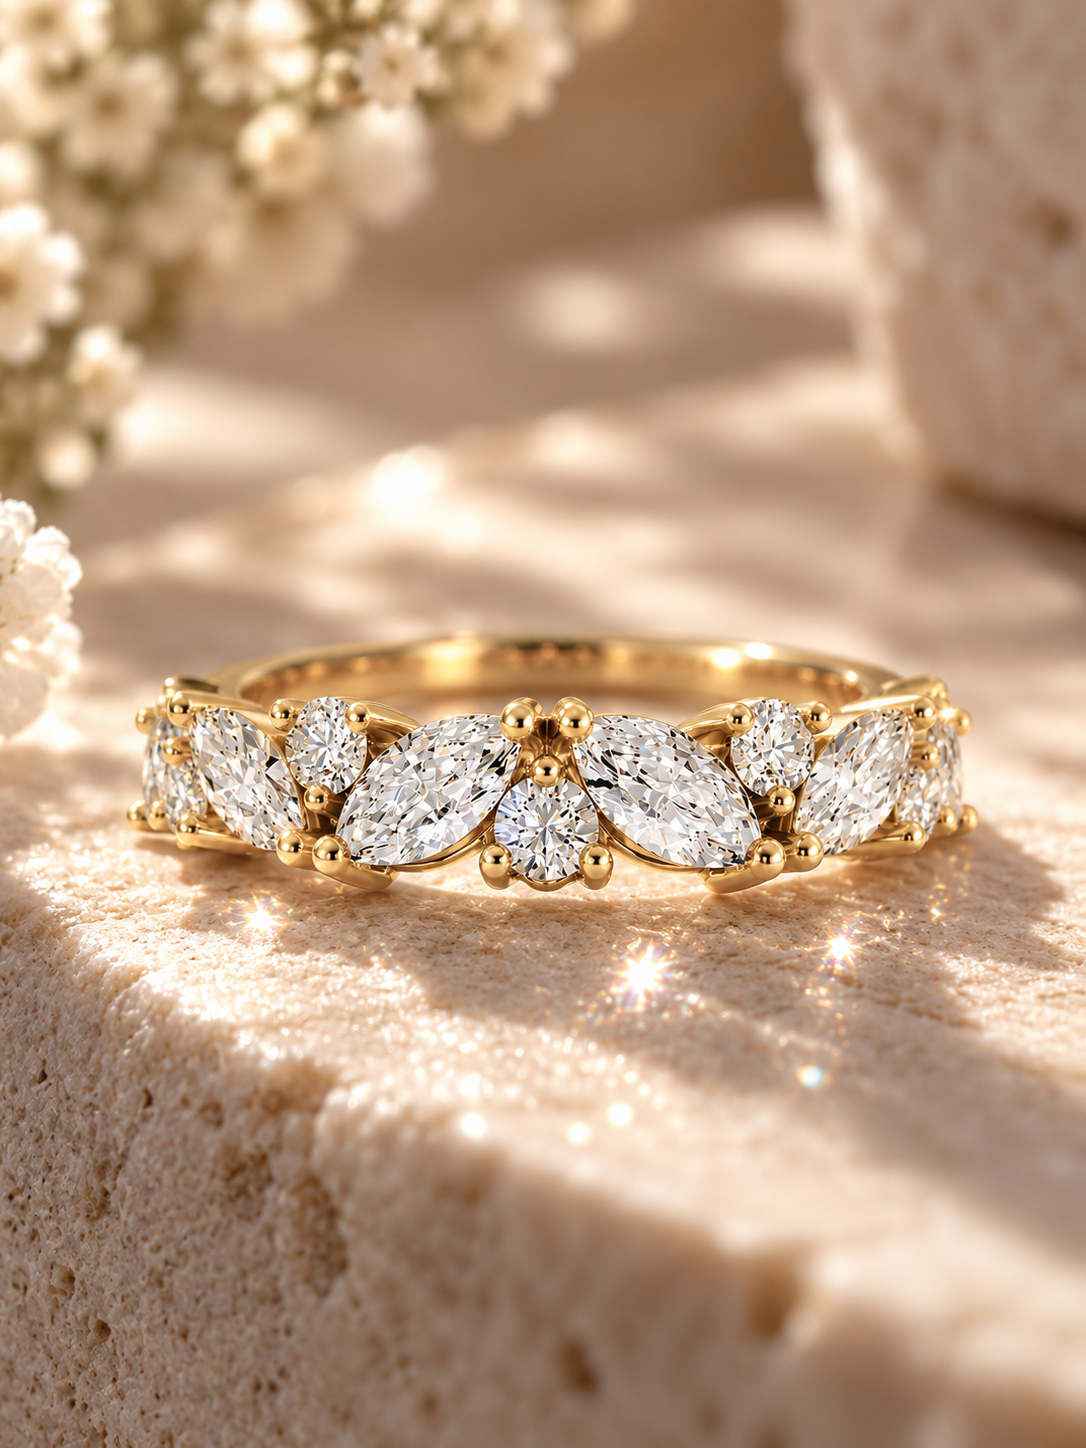
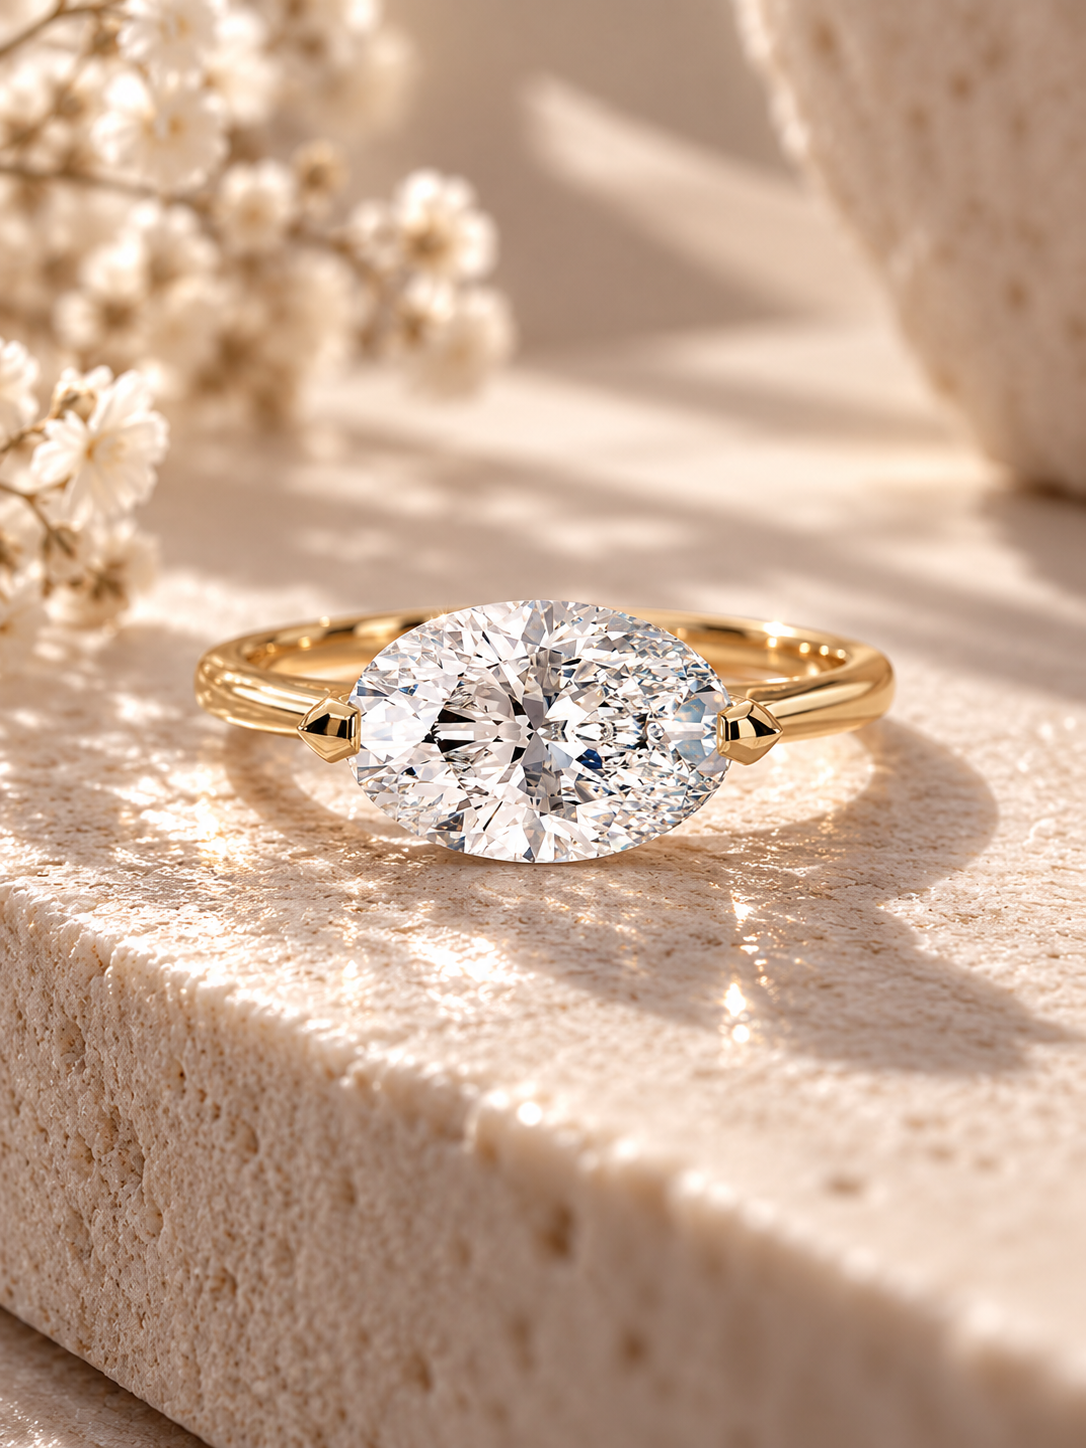
SLB

diff --git a/occasional-wear.html b/occasional-wear.html
@@ -710,12 +710,79 @@
             return '£' + Number(price).toLocaleString('en-GB');
         }
 
+        function parseCurrencyValue(val) {
+            if (!val) return null;
+            var m = String(val).match(/([0-9,.]+)/);
+            if (!m) return null;
+            return Number(m[1].replace(/,/g, ''));
+        }
+
+        function computeTennisPrice(details) {
+            // details: array of {key,value}
+            var result = {metalPrice: null, diamondPrice: null, diamondOptions: null, totalPrice: null};
+            details.forEach(function(d) {
+                if (d.key === 'metalPrice') result.metalPrice = parseCurrencyValue(d.value);
+                if (d.key === 'diamondPrice') result.diamondPrice = parseCurrencyValue(d.value);
+                if (d.key === 'totalPrice') result.totalPrice = parseCurrencyValue(d.value);
+                if (d.key === 'diamondPriceOptions') result.diamondOptions = d.value; // e.g. '0.25:2200,0.5:2400'
+            });
+
+            if (result.totalPrice) return result;
+            if (result.metalPrice != null && result.diamondPrice != null) {
+                result.totalPrice = result.metalPrice + result.diamondPrice;
+                return result;
+            }
+            if (result.metalPrice != null && result.diamondOptions) {
+                var opts = String(result.diamondOptions).split(',');
+                var nums = opts.map(function(o) {
+                    var parts = o.split(':');
+                    return parseCurrencyValue(parts[1]);
+                }).filter(Boolean);
+                if (nums.length) {
+                    var lowest = Math.min.apply(null, nums);
+                    result.diamondPrice = lowest;
+                    result.totalPrice = result.metalPrice + lowest;
+                    return result;
+                }
+            }
+            return result;
+        }
+
+        function formatDiamondOptionLabel(size) {
+            var rawSize = Number(size);
+            if (!isFinite(rawSize)) {
+                return String(size).trim() + ' ct each';
+            }
+            if (rawSize === 1) {
+                return '1.00 ct each';
+            }
+            return rawSize.toFixed(2).replace(/\.00$/, '').replace(/(\.\d)0$/, '$1') + ' ct each';
+        }
+
+        function buildDiamondOptionBlock(diamondOptions, metalPrice) {
+            if (!diamondOptions) return '';
+            var html = '<div style="margin-top:0.75rem;padding-top:0.75rem;border-top:1px solid rgba(0,0,0,0.06);">';
+            var optionParts = String(diamondOptions).split(',').filter(Boolean);
+            optionParts.forEach(function(option) {
+                var pair = option.split(':');
+                if (pair.length < 2) return;
+                var size = pair[0].trim();
+                var amount = parseCurrencyValue(pair[1]);
+                if (amount == null) return;
+                html += '<div style="margin-bottom:0.35rem;"><strong>' + formatDiamondOptionLabel(size) + '</strong> = ' + formatPrice(amount) + ' diamond price</div>';
+            });
+            if (metalPrice != null) {
+                html += '<div style="margin-top:0.5rem;"><strong>Metal price</strong>: ' + formatPrice(metalPrice) + '</div>';
+            }
+            html += '</div>';
+            return html;
+        }
+
         function getMetaHTML(item, category) {
             var metal = item.metal || '18K Gold';
             var price = item.price;
             var html = '<span class="meta-metal">' + getMetalDisplay(metal) + '</span>';
 
-            // Price on Request pieces: show only the price.
             if (price === 'request') {
                 html += '<span class="meta-price-label">' + getLabel('label-request', 'Price') + ':</span>';
                 html += '<span class="meta-price"><strong>' + getLabel('label-on-request', 'On Request') + '</strong></span>';
@@ -723,7 +790,6 @@
             }
 
             if (category === 'Ring') {
-                // Rings: Centre Stone only.
                 if (item.details && item.details.length) {
                     item.details.forEach(function(d) {
                         if (d.key === 'centreStone') {
@@ -732,7 +798,6 @@
                     });
                 }
             } else {
-                // Other jewellery: Total Carat Weight only.
                 if (item.details && item.details.length) {
                     item.details.forEach(function(d) {
                         if (d.key === 'totalKarat') {
@@ -753,15 +818,27 @@
             var price = item.price;
             var html = '<span class="meta-metal">' + getMetalDisplay(metal) + '</span>';
 
-            // Price on Request pieces: show only the price.
-            if (price === 'request') {
+            if (price === 'request' && item.details && item.details.length) {
+                var comp = computeTennisPrice(item.details);
                 html += '<span class="meta-price-label">' + getLabel('label-request', 'Price') + ':</span>';
                 html += '<span class="meta-price"><strong>' + getLabel('label-on-request', 'On Request') + '</strong></span>';
+                if (comp && comp.diamondOptions) {
+                    html += '<button type="button" class="modal-details-toggle" role="button" aria-expanded="false" tabindex="0">Click to see full price list info</button>';
+                    var extra = '<div class="modal-details-extra" style="display:none;margin-top:0.75rem;padding-top:0.75rem;border-top:1px solid rgba(0,0,0,0.06);">';
+                    if (item.details) {
+                        item.details.forEach(function(d) {
+                            if (d.key === 'totalKarat') extra += '<div><strong>Total carat</strong>: ' + d.value + '</div>';
+                            if (d.key === 'info') extra += '<div style="margin-top:0.5rem;color:#555">' + d.value + '</div>';
+                        });
+                    }
+                    extra += buildDiamondOptionBlock(comp.diamondOptions, comp.metalPrice);
+                    extra += '</div>';
+                    html += extra;
+                }
                 return html;
             }
 
             if (category === 'Ring') {
-                // Rings: Centre Stone only.
                 if (item.details && item.details.length) {
                     item.details.forEach(function(d) {
                         if (d.key === 'centreStone') {
@@ -770,7 +847,6 @@
                     });
                 }
             } else {
-                // Other jewellery: Total Carat Weight only.
                 if (item.details && item.details.length) {
                     item.details.forEach(function(d) {
                         if (d.key === 'totalKarat') {
@@ -902,7 +978,8 @@
                     extra.classList.toggle('is-expanded', !isExpanded);
                 }
                 detailToggle.setAttribute('aria-expanded', String(!isExpanded));
-                detailToggle.textContent = isExpanded ? 'View full details' : 'Hide full details';
+                var nextLabel = detailToggle.textContent.indexOf('Click to see full price list info') !== -1 ? (isExpanded ? 'Click to see full price list info' : 'Hide full price list info') : (isExpanded ? 'View full details' : 'Hide full details');
+                detailToggle.textContent = nextLabel;
                 return;
             }
             var card = e.target.closest('.product-card');
@@ -983,12 +1060,12 @@
 
         // Occasional Wear - Bracelets
         renderProducts('occasionalWear', [
-            {name:'Lumina Wedding Tennis', image:'49.png', price:'request'},
-                    {name:'Arabella', image:'53.png', price:'request'},
-                    {name:'Classic Round Tennis Bracelet (Gold)', image:'classic-round-tennis-bracelet-gold.png', price:'request', details:[{key:'totalKarat', value:'12 ct'},{key:'metalPrice', value:'2520 GBP'},{key:'diamondPriceOptions', value:'0.25:2200,0.5:2400,0.75:2700,1:3000'},{key:'info', value:'Total carat 12 ct — diamond price varies by chosen per-stone size; metal price shown'}]},
-                    {name:'Emerald-Cut Tennis Bracelet', image:'emerald-cut-tennis-bracelet.png', price:'request', details:[{key:'totalKarat', value:'12 ct'},{key:'metalPrice', value:'2520 GBP'},{key:'diamondPriceOptions', value:'0.25:2200,0.5:2400,0.75:2700,1:3000'},{key:'info', value:'Total carat 12 ct — diamond price varies by chosen per-stone size; metal price shown'}]},
-                    {name:'Marquise and Round Tennis Bracelet', image:'marquise-oval-alternating-tennis-bracelet.png', price:'request', details:[{key:'totalKarat', value:'12 ct'},{key:'diamondPrice', value:'3000 GBP'},{key:'metalPrice', value:'2520 GBP'},{key:'totalPrice', value:'5520 GBP'},{key:'info', value:'Large marquise stones ~0.5 ct each ×20 — total carat 12 ct'}]},
-                    {name:'Pear-Cut Tennis Bracelet (Gold)', image:'pear-cut-tennis-bracelet-gold.png', price:'request', details:[{key:'totalKarat', value:'12 ct'},{key:'metalPrice', value:'2520 GBP'},{key:'diamondPriceOptions', value:'0.25:2200,0.5:2400,0.75:2700,1:3000'},{key:'info', value:'Total carat 12 ct — diamond price varies by chosen per-stone size; metal price shown'}]}
+                    {name:'Lumina Wedding Tennis', image:'49.png', price:'request', metal:'18K Gold', details:[{key:'totalKarat', value:'12 ct'},{key:'metalPrice', value:'2520 GBP'},{key:'diamondPriceOptions', value:'0.25:2200,0.5:2400,0.75:2700,1:3000'},{key:'info', value:'Total carat 12 ct — diamond price varies by chosen per-stone size; metal price shown'}]},
+                    {name:'Arabella', image:'53.png', price:'request', metal:'18K Gold', details:[{key:'totalKarat', value:'12 ct'},{key:'metalPrice', value:'2520 GBP'},{key:'diamondPriceOptions', value:'0.25:2200,0.5:2400,0.75:2700,1:3000'},{key:'info', value:'Total carat 12 ct — diamond price varies by chosen per-stone size; metal price shown'}]},
+                    {name:'Classic Round Tennis Bracelet (Gold)', image:'classic-round-tennis-bracelet-gold.png', price:'request', metal:'18K Gold', details:[{key:'totalKarat', value:'12 ct'},{key:'metalPrice', value:'2520 GBP'},{key:'diamondPriceOptions', value:'0.25:2200,0.5:2400,0.75:2700,1:3000'},{key:'info', value:'Total carat 12 ct — diamond price varies by chosen per-stone size; metal price shown'}]},
+                    {name:'Emerald-Cut Tennis Bracelet', image:'emerald-cut-tennis-bracelet.png', price:'request', metal:'18K Gold', details:[{key:'totalKarat', value:'12 ct'},{key:'metalPrice', value:'2520 GBP'},{key:'diamondPriceOptions', value:'0.25:2200,0.5:2400,0.75:2700,1:3000'},{key:'info', value:'Total carat 12 ct — diamond price varies by chosen per-stone size; metal price shown'}]},
+                    {name:'Marquise and Round Tennis Bracelet', image:'marquise-oval-alternating-tennis-bracelet.png', price:'request', metal:'18K Gold', details:[{key:'totalKarat', value:'12 ct'},{key:'metalPrice', value:'2520 GBP'},{key:'diamondPriceOptions', value:'0.25:2200,0.5:2400,0.75:2700,1:3000'},{key:'info', value:'Large marquise stones ~0.5 ct each ×20 — total carat 12 ct'}]},
+                    {name:'Pear-Cut Tennis Bracelet (Gold)', image:'pear-cut-tennis-bracelet-gold.png', price:'request', metal:'18K Gold', details:[{key:'totalKarat', value:'12 ct'},{key:'metalPrice', value:'2520 GBP'},{key:'diamondPriceOptions', value:'0.25:2200,0.5:2400,0.75:2700,1:3000'},{key:'info', value:'Total carat 12 ct — diamond price varies by chosen per-stone size; metal price shown'}]}
                 ], 'Bracelet');
 
 // Occasional Wear - Brooches

diff --git a/view-catalogue.html b/view-catalogue.html
@@ -734,6 +734,39 @@ function formatPrice(price, currency) {
     return (currency === 'USD' ? '$' : '£') + Number(price).toLocaleString(currency === 'USD' ? 'en-US' : 'en-GB');
 }
 
+function parsePriceNumber(value) {
+    if (!value) return null;
+    var match = String(value).match(/([0-9,.]+)/);
+    if (!match) return null;
+    return Number(match[1].replace(/,/g, ''));
+}
+
+function formatDiamondOptionLabel(size) {
+    var rawSize = Number(size);
+    if (!isFinite(rawSize)) return String(size).trim() + ' ct each';
+    if (rawSize === 1) return '1.00 ct each';
+    return rawSize.toFixed(2).replace(/\.00$/, '').replace(/(\.\d)0$/, '$1') + ' ct each';
+}
+
+function buildDiamondOptionBlock(diamondOptions, metalPrice) {
+    if (!diamondOptions) return '';
+    var html = '<div style="margin-top:0.75rem;padding-top:0.75rem;border-top:1px solid rgba(0,0,0,0.06);">';
+    var optionParts = String(diamondOptions).split(',').filter(Boolean);
+    optionParts.forEach(function(option) {
+        var pair = option.split(':');
+        if (pair.length < 2) return;
+        var size = pair[0].trim();
+        var amount = parsePriceNumber(pair[1]);
+        if (amount == null) return;
+        html += '<div style="margin-bottom:0.35rem;"><strong>' + formatDiamondOptionLabel(size) + '</strong> = ' + formatPrice(amount) + ' diamond price</div>';
+    });
+    if (metalPrice != null) {
+        html += '<div style="margin-top:0.5rem;"><strong>Metal price</strong>: ' + formatPrice(metalPrice) + '</div>';
+    }
+    html += '</div>';
+    return html;
+}
+
 function getMetaHTML(item, category) {
     var metal = item.metal || '18K Gold';
     var price = item.price;
@@ -963,12 +996,29 @@ function getModalMetaHTML(item, category) {
         visibleDetails.forEach(function(d) {
             html += '<span class="meta-detail-row"><span class="meta-detail-label">' + getDetailLabel(d.key) + ':</span> <span class="meta-detail-value">' + d.value + '</span></span>';
         });
-        if (extraDetails.length > 0) {
-            html += '<button type="button" class="modal-details-toggle" aria-expanded="false">View full details</button>';
+        if (extraDetails.length > 0 || item.details.some(function(d) { return d.key === 'diamondPriceOptions'; })) {
+            var toggleLabel = item.details.some(function(d) { return d.key === 'diamondPriceOptions'; }) ? 'Click to see full price list info' : 'View full details';
+            html += '<button type="button" class="modal-details-toggle" aria-expanded="false">' + toggleLabel + '</button>';
             html += '<div class="modal-details-extra" style="display:none">';
-            extraDetails.forEach(function(d) {
-                html += '<span class="meta-detail-row"><span class="meta-detail-label">' + getDetailLabel(d.key) + ':</span> <span class="meta-detail-value">' + d.value + '</span></span>';
-            });
+            if (item.details.some(function(d) { return d.key === 'diamondPriceOptions'; })) {
+                var metalPrice = null;
+                item.details.forEach(function(d) {
+                    if (d.key === 'metalPrice') metalPrice = parsePriceNumber(d.value);
+                });
+                var diamondOptions = null;
+                item.details.forEach(function(d) {
+                    if (d.key === 'diamondPriceOptions') diamondOptions = d.value;
+                });
+                item.details.forEach(function(d) {
+                    if (d.key === 'totalKarat') html += '<span class="meta-detail-row"><span class="meta-detail-label">Total carat</span>: <span class="meta-detail-value">' + d.value + '</span></span>';
+                    if (d.key === 'info') html += '<span class="meta-detail-row"><span class="meta-detail-label">Note</span>: <span class="meta-detail-value">' + d.value + '</span></span>';
+                });
+                html += buildDiamondOptionBlock(diamondOptions, metalPrice);
+            } else {
+                extraDetails.forEach(function(d) {
+                    html += '<span class="meta-detail-row"><span class="meta-detail-label">' + getDetailLabel(d.key) + ':</span> <span class="meta-detail-value">' + d.value + '</span></span>';
+                });
+            }
             html += '</div>';
         }
     }
@@ -994,7 +1044,8 @@ var detailToggle = e.target.closest('.modal-details-toggle');
             extra.classList.toggle('is-expanded', !isExpanded);
         }
         detailToggle.setAttribute('aria-expanded', String(!isExpanded));
-        detailToggle.textContent = isExpanded ? 'View full details' : 'Hide full details';
+        var nextLabel = detailToggle.textContent.indexOf('Click to see full price list info') !== -1 ? (isExpanded ? 'Click to see full price list info' : 'Hide full price list info') : (isExpanded ? 'View full details' : 'Hide full details');
+        detailToggle.textContent = nextLabel;
         return;
     }
     var card = e.target.closest('.product-card');
@@ -1182,8 +1233,12 @@ renderProducts('dailySparkle', [
 
         // Occasional Wear - Bracelets
         renderProducts('occasionalWear', [
-            {name:'Lumina Wedding Tennis', image:'49.png', price:'request'},
-            {name:'Arabella', image:'53.png', price:'request'}
+            {name:'Lumina Wedding Tennis', image:'49.png', price:'request', metal:'18K Gold', details:[{key:'totalKarat', value:'12 ct'},{key:'metalPrice', value:'2520 GBP'},{key:'diamondPriceOptions', value:'0.25:2200,0.5:2400,0.75:2700,1:3000'},{key:'info', value:'Total carat 12 ct — diamond price varies by chosen per-stone size; metal price shown'}]},
+            {name:'Arabella', image:'53.png', price:'request', metal:'18K Gold', details:[{key:'totalKarat', value:'12 ct'},{key:'metalPrice', value:'2520 GBP'},{key:'diamondPriceOptions', value:'0.25:2200,0.5:2400,0.75:2700,1:3000'},{key:'info', value:'Total carat 12 ct — diamond price varies by chosen per-stone size; metal price shown'}]},
+            {name:'Classic Round Tennis Bracelet (Gold)', image:'classic-round-tennis-bracelet-gold.png', price:'request', metal:'18K Gold', details:[{key:'totalKarat', value:'12 ct'},{key:'metalPrice', value:'2520 GBP'},{key:'diamondPriceOptions', value:'0.25:2200,0.5:2400,0.75:2700,1:3000'},{key:'info', value:'Total carat 12 ct — diamond price varies by chosen per-stone size; metal price shown'}]},
+            {name:'Emerald-Cut Tennis Bracelet', image:'emerald-cut-tennis-bracelet.png', price:'request', metal:'18K Gold', details:[{key:'totalKarat', value:'12 ct'},{key:'metalPrice', value:'2520 GBP'},{key:'diamondPriceOptions', value:'0.25:2200,0.5:2400,0.75:2700,1:3000'},{key:'info', value:'Total carat 12 ct — diamond price varies by chosen per-stone size; metal price shown'}]},
+            {name:'Marquise and Round Tennis Bracelet', image:'marquise-oval-alternating-tennis-bracelet.png', price:'request', metal:'18K Gold', details:[{key:'totalKarat', value:'12 ct'},{key:'metalPrice', value:'2520 GBP'},{key:'diamondPriceOptions', value:'0.25:2200,0.5:2400,0.75:2700,1:3000'},{key:'info', value:'Large marquise stones ~0.5 ct each ×20 — total carat 12 ct'}]},
+            {name:'Pear-Cut Tennis Bracelet (Gold)', image:'pear-cut-tennis-bracelet-gold.png', price:'request', metal:'18K Gold', details:[{key:'totalKarat', value:'12 ct'},{key:'metalPrice', value:'2520 GBP'},{key:'diamondPriceOptions', value:'0.25:2200,0.5:2400,0.75:2700,1:3000'},{key:'info', value:'Total carat 12 ct — diamond price varies by chosen per-stone size; metal price shown'}]}
         ], 'Bracelet');
 
 // Occasional Wear - Brooches

diff --git a/index.html b/index.html
@@ -231,8 +231,8 @@
                 <span class="collections-mobile-card-copy"><strong data-i18n="collection-silver-casual">Silver Collection</strong><small>16 <span data-i18n="collection-pieces">pieces</span></small></span>
             </a>
         <a href="single-lady.html" class="collections-mobile-card">
-            <img src="images/SL.png" alt="Single Lady collection">
-            <span class="collections-mobile-card-copy"><strong>Single Lady</strong><small>19 <span>pieces</span></small></span>
+            <img src="images/SL.png" alt="Aura Collection">
+            <span class="collections-mobile-card-copy"><strong>Aura Collection</strong><small>19 <span>pieces</span></small></span>
         </a>
         </div>
         <a href="view-catalogue.html" class="collections-mobile-all" data-i18n="collections-view-all">View All Collections</a>
@@ -266,8 +266,8 @@
                     <div class="collection-overlay"><h3 class="collection-name" data-i18n="collection-silver-casual">Silver Collection</h3><p class="collection-count">16 <span data-i18n="collection-pieces">pieces</span></p></div>
                 </a>
                 <a href="single-lady.html" class="collection-item" style="text-decoration:none;color:inherit;">
-                    <div class="collection-image"><img src="images/SL.png" alt="Single Lady collection"></div>
-                    <div class="collection-overlay"><h3 class="collection-name">Single Lady</h3><p class="collection-count">19 <span>pieces</span></p></div>
+                    <div class="collection-image"><img src="images/SL.png" alt="Aura Collection"></div>
+                    <div class="collection-overlay"><h3 class="collection-name">Aura Collection</h3><p class="collection-count">19 <span>pieces</span></p></div>
                 </a>
             </div>
         </div>
@@ -1002,7 +1002,7 @@
                         <li><a href="daily-sparkle.html" data-i18n="collection-daily-sparkle">Daily Sparkle</a></li>
                         <li><a href="occasional-wear.html" data-i18n="collection-occasional-wear">Occasional Wear</a></li>
                         <li><a href="forever-bond.html" data-i18n="collection-forever-bond">Forever Bond</a></li>
-                        <li><a href="single-lady.html">Single Lady</a></li>
+                        <li><a href="single-lady.html">Aura Collection</a></li>
                     </ul>
                 </div>
                 

diff --git a/single-lady.html b/single-lady.html
@@ -3,7 +3,7 @@
 <head>
     <meta charset="UTF-8">
     <meta name="viewport" content="width=device-width, initial-scale=1.0">
-    <title>Single Lady — Victoria Diamonds</title>
+    <title>Aura Collection — Victoria Diamonds</title>
     <link rel="preconnect" href="https://fonts.googleapis.com">
     <link rel="preconnect" href="https://fonts.gstatic.com" crossorigin>
     <link href="https://fonts.googleapis.com/css2?family=Cormorant+Garamond:ital,wght@0,300;0,400;0,500;0,600;1,300;1,400&family=DM+Sans:ital,wght@0,400;0,500;0,600;1,400&display=swap" rel="stylesheet">
@@ -722,8 +722,8 @@
     </div>
 
     <section class="catalogue-hero">
-        <h1>Single Lady Collection</h1>
-        <p>Selected pieces from the Single Lady collection — new uploads, details & pricing available on request.</p>
+        <h1>Aura Collection</h1>
+        <p>Selected pieces from the Aura Collection — new uploads, details & pricing available on request.</p>
     </section>
 
     <div class="catalogue-sort-wrapper">
@@ -740,8 +740,8 @@
     <section class="collection-section">
         <div class="collection-head">
             <div>
-                <h2>Single Lady</h2>
-                <p class="collection-sub">Selected pieces from our latest Single Lady upload. Contact us for full details and bespoke requests.</p>
+                <h2>Aura Collection</h2>
+                <p class="collection-sub">Selected pieces from our latest Aura Collection upload. Contact us for full details and bespoke requests.</p>
             </div>
             <span class="count">19 pieces</span>
         </div>

diff --git a/translations.js b/translations.js
@@ -345,8 +345,7 @@ const translations = {
         'product-Round Illusion Stud': '圓形幻象耳釘',
         'product-Fiora Earrings': '芙洛拉耳環',
         // Bracelets
-        'product-Lumina Wedding Tennis': '光韻婚禮手鏈',
-        'product-Arabella': '阿拉貝拉手鏈',
+        // removed Lumina and Arabella (moved/rolled back)
         // Brooches
         'product-Celestia Broche': '天界胸針',
         'product-Éternelle Broche': '永恆胸針',
